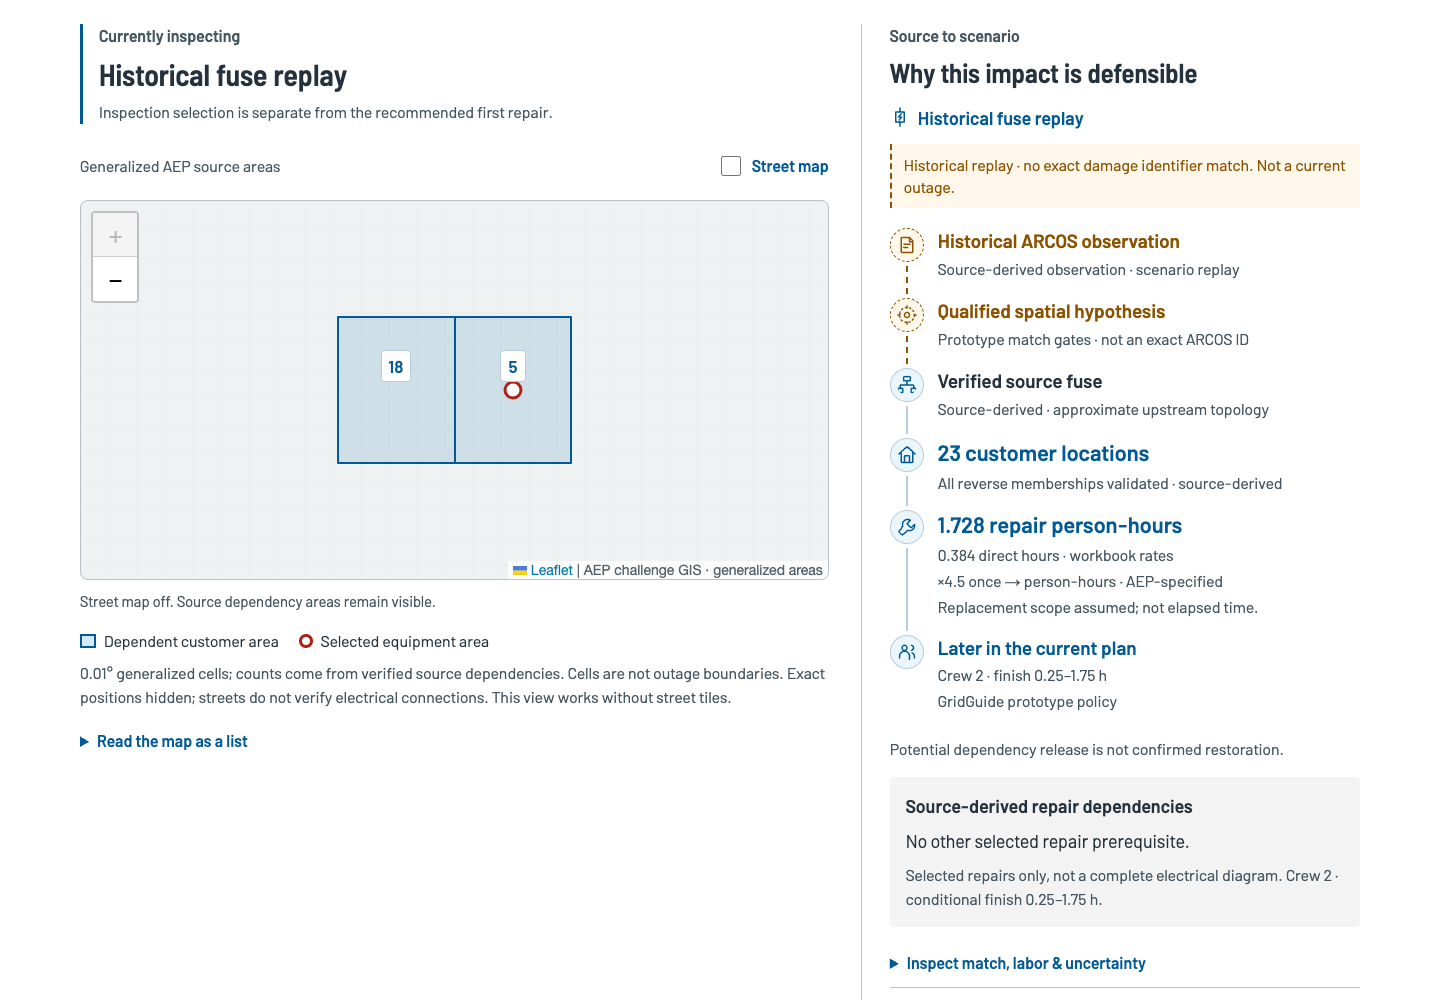
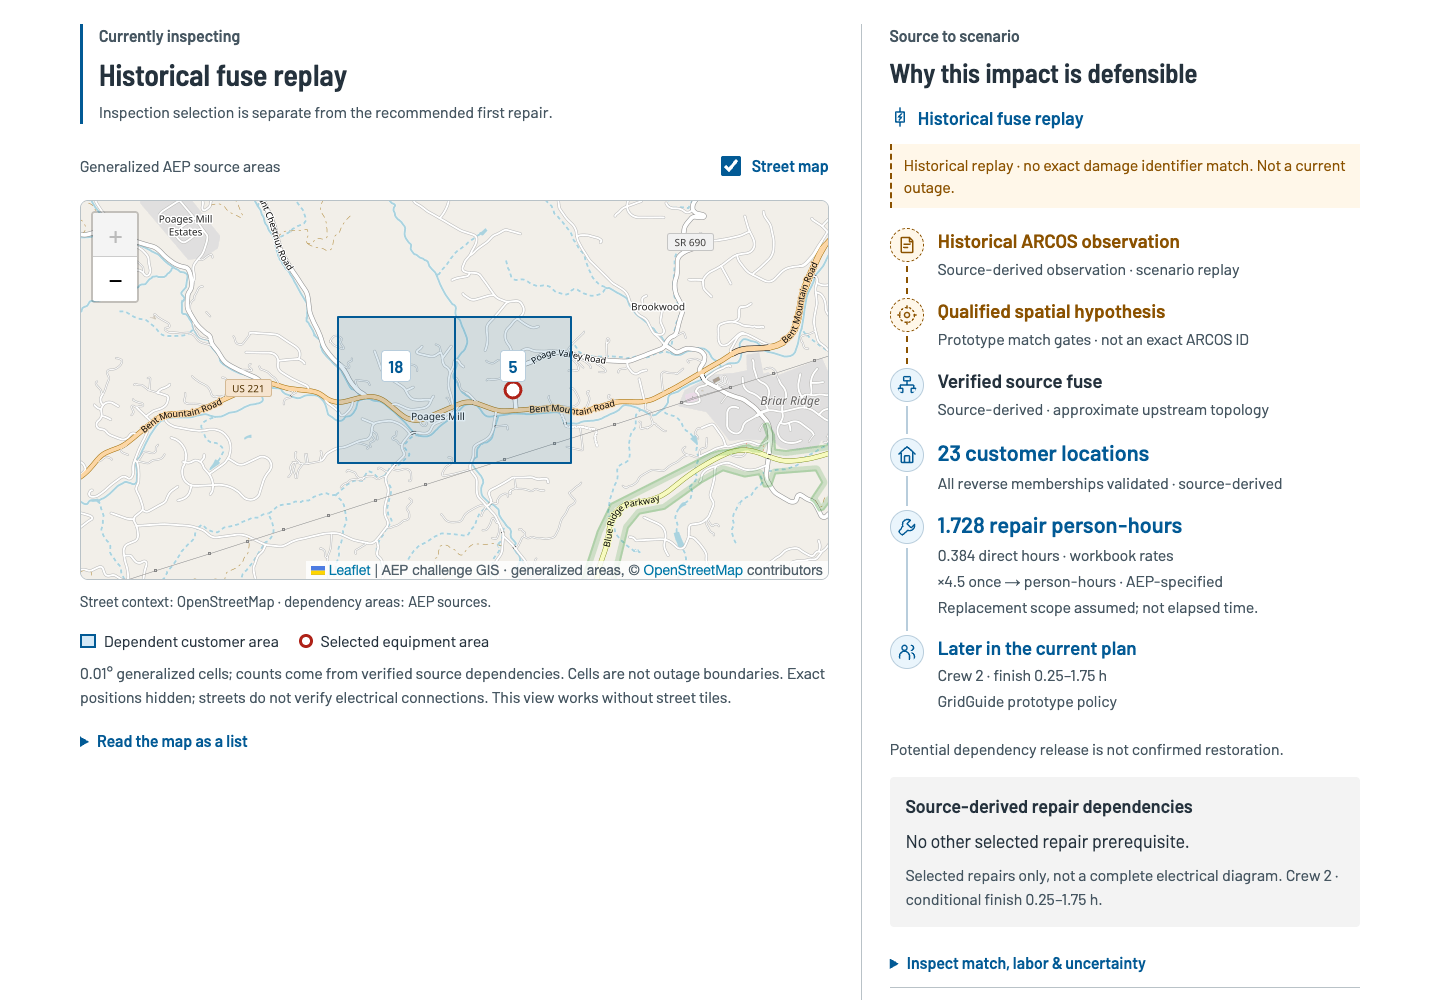
docs: recapture evidence screenshot with live street basemap

diff --git a/docs/media/v1.0.0/README.md b/docs/media/v1.0.0/README.md
@@ -2,7 +2,7 @@
 
 Captured **November 3, 2026** from the unchanged implementation at `bb7c53ce2e0733c6770c9de631a75df094407727`, the last known hackathon-period checkpoint. These are new portfolio captures, not evidence of the exact competition submission or screenshots taken during the event.
 
-All five images are direct **1440×1000 PNG** viewport captures at device scale 1 from installed Google Chrome through the existing Playwright dependency. The normal [browser fixture](../../../frontend/tests/server_fixture.py) runs the production API and pinned source preparation, with no explanation provider. The separate insufficient-risk fixture was not used. Vite serves the actual frontend. API requests are routed to the normal local fixture without changing response content; external browser requests are blocked. No DOM content, application code, source data, or numerical results were changed for these captures.
+All five images are direct **1440×1000 PNG** viewport captures at device scale 1 from installed Google Chrome through the existing Playwright dependency. The normal [browser fixture](../../../frontend/tests/server_fixture.py) runs the production API and pinned source preparation, with no explanation provider. The separate insufficient-risk fixture was not used. Vite serves the actual frontend. API requests are routed to the normal local fixture without changing response content; external browser requests are blocked except for the evidence recapture described below. No DOM content, application code, source data, or numerical results were changed for these captures.
 
 | Image | Visible state |
 | --- | --- |
@@ -10,15 +10,15 @@ All five images are direct **1440×1000 PNG** viewport captures at device scale 
 | [Preparation](preparation.png) | Default preparation and safety guidance; no tasks completed and no personal needs declared. |
 | [Communication preview](communication-preview.png) | The “Outage confirmed” example selected through the real UI. It explicitly says hypothetical, preview-only, and not sent. |
 | [Grid Insights](grid-insights.png) | Critical-service-aware policy selected; one crew, four people, clear access; comparison with the 23-premise alternative. |
-| [Evidence and crew assignment](evidence.png) | Historical fuse selected for inspection while the critical-service-aware recommendation remains active; two crews, four people each, clear access. The Street map control is off; generalized source cells and the existing evidence chain remain visible. |
+| [Evidence and crew assignment](evidence.png) | Historical fuse selected for inspection while the critical-service-aware recommendation remains active; two crews, four people each, clear access. Street map is enabled with the live OpenStreetMap basemap behind the generalized source cells; the existing evidence chain remains visible. |
 
-The evidence image is scrolled to the map/lineage workspace; the communication image is scrolled to the lifecycle preview. This is ordinary viewport capture, not a composite. All files are unretouched, with no generated visuals, redaction overlays, numerical substitutions, or post-capture image editing. No developer tools, unrelated windows, credentials, precise coordinates, facility identities, or raw customer/equipment identifiers are visible. Leaflet attribution remains visible on the map. The UI's generalization does not itself resolve redistribution rights; see the [release audit](../../releases/PUBLIC_RELEASE_AUDIT.md).
+The evidence image is scrolled to the map/lineage workspace; the communication image is scrolled to the lifecycle preview. This is ordinary viewport capture, not a composite. All files are unretouched, with no generated visuals, redaction overlays, numerical substitutions, or post-capture image editing. No developer tools, unrelated windows, credentials, precise coordinates, facility identities, or raw customer/equipment identifiers are visible. Leaflet, AEP source, and OpenStreetMap contributor attribution remain visible on the evidence map. Street labels come from the OpenStreetMap basemap, not exported AEP customer attributes. The UI's generalization does not itself resolve redistribution rights; see the [release audit](../../releases/PUBLIC_RELEASE_AUDIT.md).
 
 ## Reproduce the views
 
-Use the [documented local setup](../../../README.md#getting-started) with authorized source access and external AI disabled, then open Chrome at a 1440×1000 viewport. Navigate Overview → Prepare & alerts → Grid insights. Select the communication stage and evidence/crew settings listed above. Disable Street map through its existing control for the evidence view. Wait for results and local fonts before capturing; keep the entire scenario/uncertainty copy intact.
+Use the [documented local setup](../../../README.md#getting-started) with authorized source access and external AI disabled, then open Chrome at a 1440×1000 viewport. Navigate Overview → Prepare & alerts → Grid insights. Select the communication stage and evidence/crew settings listed above. Enable Street map through its existing control for the evidence view and allow HTTPS requests to `tile.openstreetmap.org`. Wait for the status “Street context: OpenStreetMap · dependency areas: AEP sources.” and for every tile image in the final map layer to be complete, have nonzero natural width, and carry Leaflet’s loaded class, with no tile requests pending. Wait for results and local fonts before capturing; keep the entire scenario/uncertainty copy intact.
 
-For automated QA, the existing browser harness starts the normal API fixture on 18080 and Vite on 15173, and routes `/api/**` to that fixture. It blocks external requests. Portfolio capture used those same conditions, with zero browser runtime errors. Temporary capture scripts/reports were kept outside the tracked repository. No new screenshot dependency or product endpoint was introduced.
+For automated QA, the existing browser harness starts the normal API fixture on 18080 and Vite on 15173, and routes `/api/**` to that fixture. It blocks external requests. The other four portfolio captures used those same offline conditions. The evidence image was recaptured on November 3 with only the OpenStreetMap tile host additionally allowed, using ordinary UI controls and the same viewport, scroll position, selected candidate, policy, crews, and people settings. The final layer contained 12 loaded tile images, with 12 HTTP 200 responses and zero pending requests at capture; the app reported the basemap ready. Earlier requests were canceled when switching map state/selection. There were zero browser runtime errors. The screenshot was visually reviewed for street detail, generalized overlays, labels, marker visibility, and attribution. Temporary capture scripts/reports were kept outside the tracked repository. No new screenshot dependency or product endpoint was introduced.
 
 ## File integrity
 
@@ -30,4 +30,4 @@ SHA-256 hashes below identify the reviewed, unmodified PNGs.
[5 lines of base64/hex data omitted]

diff --git a/THIRD_PARTY_NOTICES.md b/THIRD_PARTY_NOTICES.md
@@ -8,7 +8,7 @@ This inventory records materials used by the preserved application. It is not a 
 | Barlow fonts by Jeremy Tribby | Four unmodified WOFF2 files. Preserve [OFL 1.1](frontend/public/fonts/OFL.txt) and the [source/revision notice](frontend/public/fonts/SOURCE.txt) with redistributed fonts. |
 | Leaflet 1.9.4 | BSD-2-Clause in installed package metadata and its license file. Preserve the applicable notice when distributing a compiled application. |
 | React and React DOM | MIT in the pinned packages. Preserve applicable notices in redistributed bundles. |
-| Optional OpenStreetMap tiles | Existing UI includes linked contributor attribution. Tiles are fetched from the standard tile service, not bundled or cached for offline redistribution. Review the [tile policy](https://operations.osmfoundation.org/policies/tiles/) for any future hosting change. The portfolio screenshots use the vector fallback with external requests blocked. |
+| Optional OpenStreetMap tiles | Existing UI includes linked contributor attribution. Tiles are fetched from the standard tile service, not bundled or cached for offline redistribution. Review the [tile policy](https://operations.osmfoundation.org/policies/tiles/) for any future hosting change. The evidence portfolio screenshot includes live OpenStreetMap tiles with contributor attribution visible; the other four captures block external requests. |
 | Python and frontend dependencies | [Pinned engine dependencies](requirements-checkpoint.txt), [web dependencies](requirements-web.txt), and [npm lockfile](frontend/package-lock.json) record versions. Direct installed Python packages declare MIT or BSD-3-Clause; the npm lock includes MIT, Apache-2.0, ISC, BSD, Python-2.0, CC-BY-4.0, and MIT-or-CC0 terms. This is an inventory, not a complete distribution-compliance review. |
 
 The historical pipeline has a separate, unpinned [requirements file](requirements.txt). It is preserved and is not installed by the dashboard setup. Optional Gemini/OpenAI services have their own account and service terms; no account access or credentials are distributed.

diff --git a/docs/releases/VERIFICATION.md b/docs/releases/VERIFICATION.md
@@ -44,3 +44,7 @@ Checked **186 local links/anchors across 29 Markdown files**, fenced blocks, ima
 Five 1440×1000 application PNGs are visually inspected for readability and privacy. Capture conditions and file hashes are recorded with the [media](../media/v1.0.0/README.md). No image-generation model, UI/DOM text replacement, numerical alteration, or image retouching is used. Screenshots show anonymous aliases, generalized cells, no declared needs, and no raw identifiers or exact customer/facility locations.
 
 This record supplements, rather than overwrites, historical freeze/test notes. Current results do not retroactively change what was verified or submitted during the hackathon. The owner has accepted the existing challenge data; remaining publication approvals are tracked in the [current checklist](CHECKLIST.md).
+
+## Evidence screenshot follow-up — November 3, 2026
+
+Recaptured only `docs/media/v1.0.0/evidence.png` with Street map enabled and HTTPS tile requests allowed to `tile.openstreetmap.org`. The same historical fuse, critical-service-aware policy, two crews, four people per crew, clear access, 1440×1000 viewport, and evidence scroll position were retained. The app reported the basemap ready; all 12 final-layer tile images were loaded, HTTP responses were 200, and no tile requests remained pending. Visual review confirmed genuine street detail, generalized cells/counts, equipment marker, evidence text, and Leaflet/AEP/OpenStreetMap attribution. No compositing, retouching, code, dependency, or data changes. The other four screenshots are unchanged. The existing full test results above were not rerun for this image/provenance-only correction.
